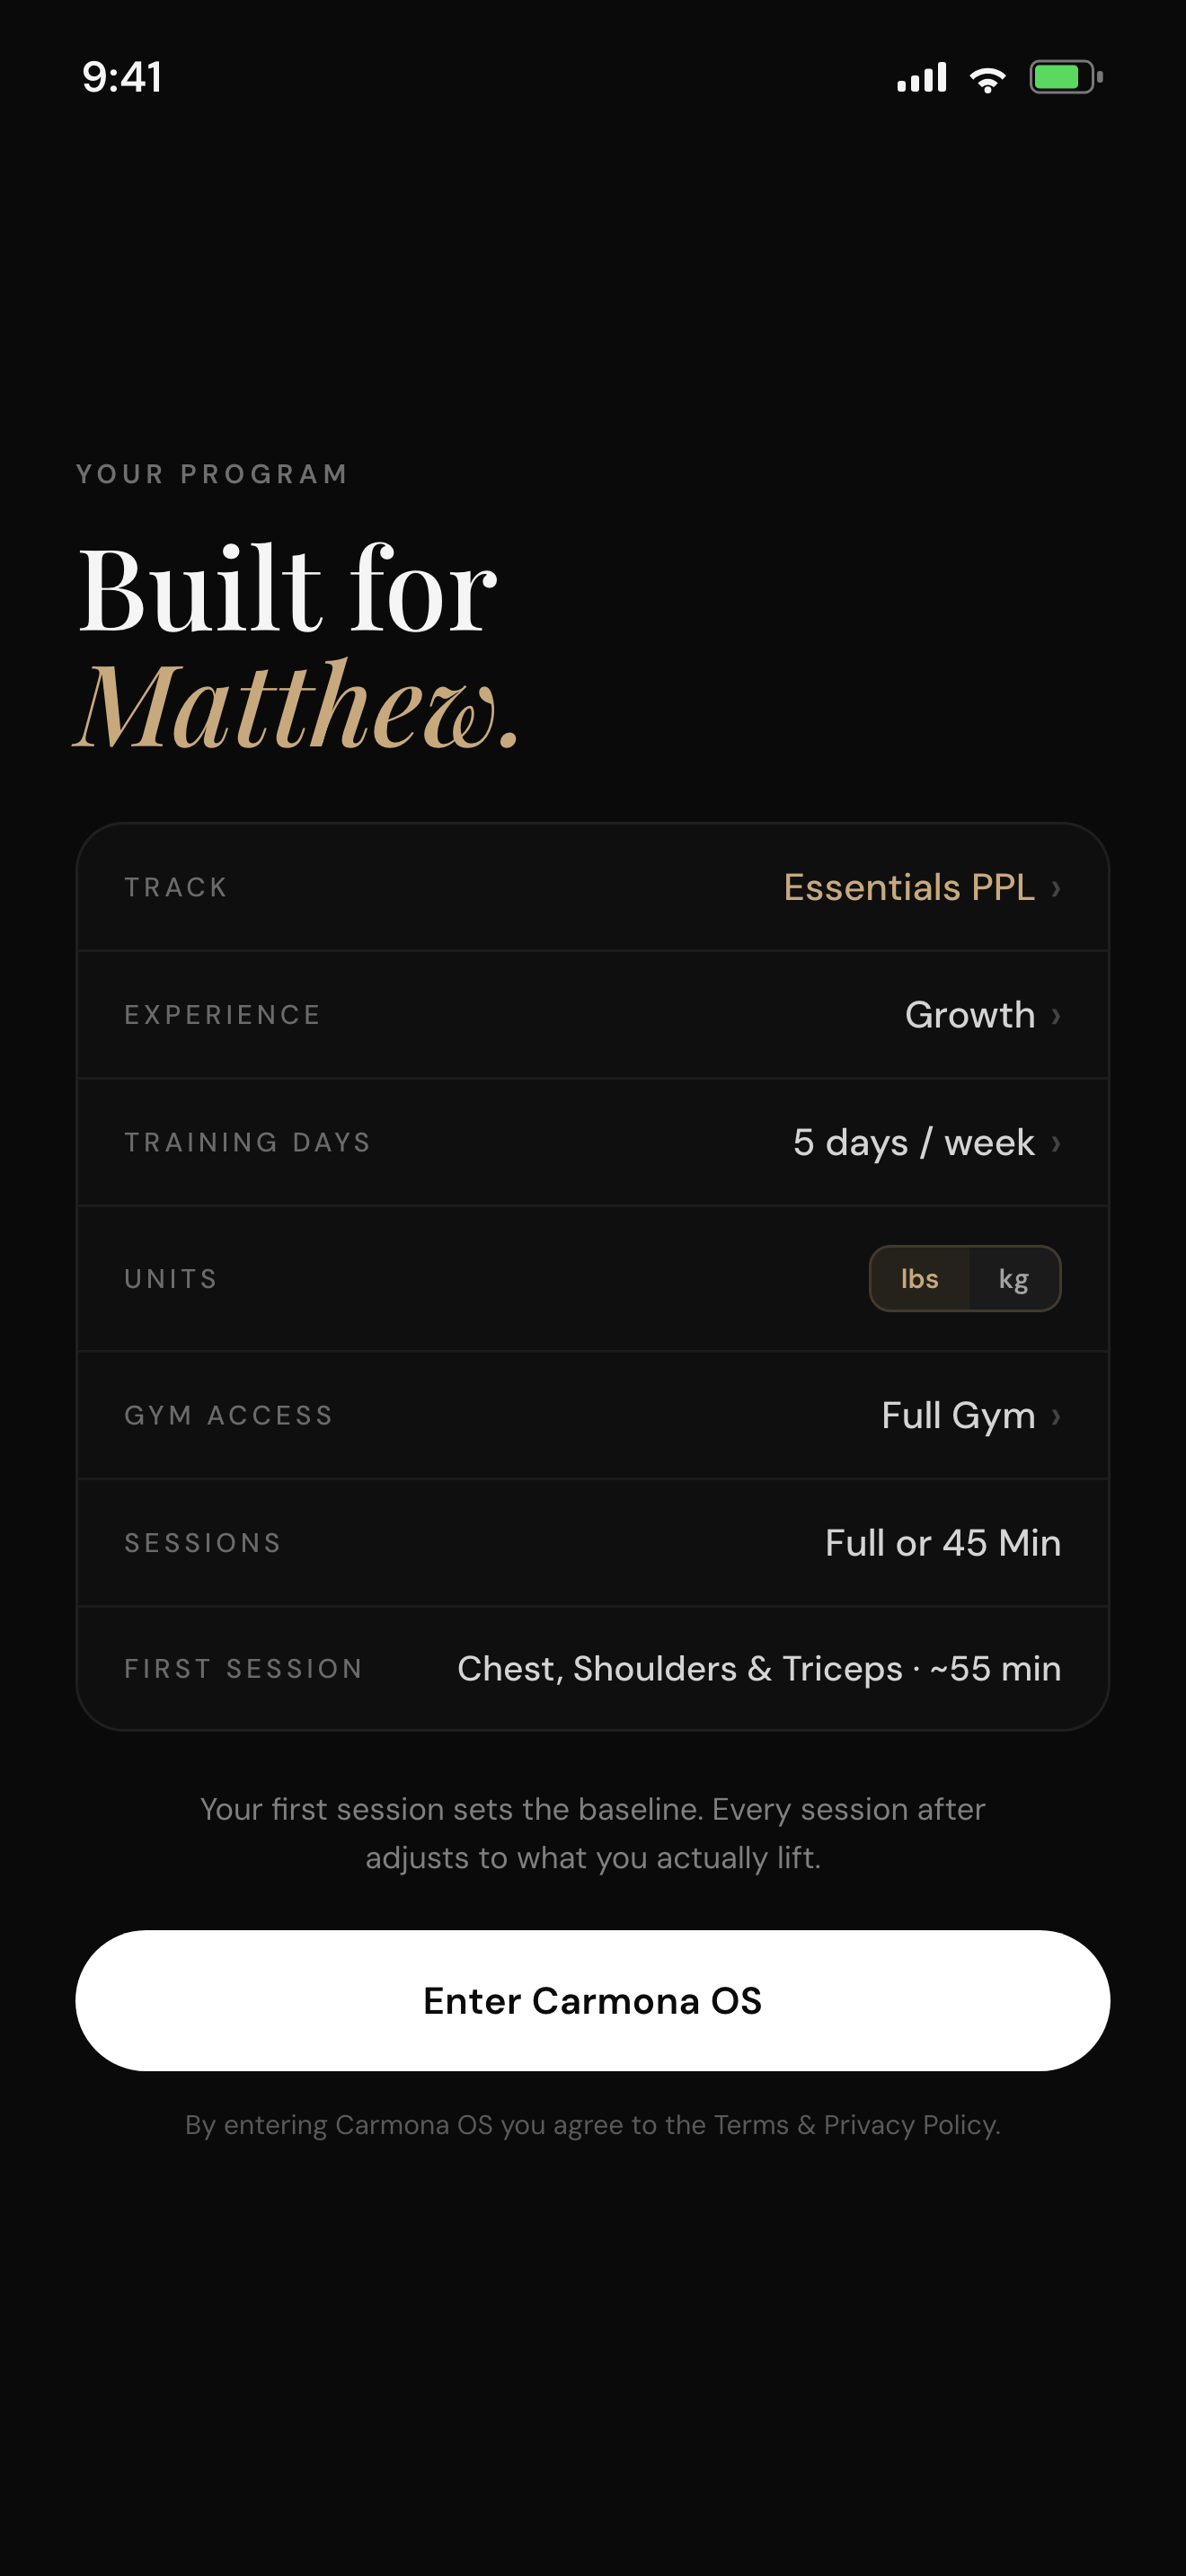
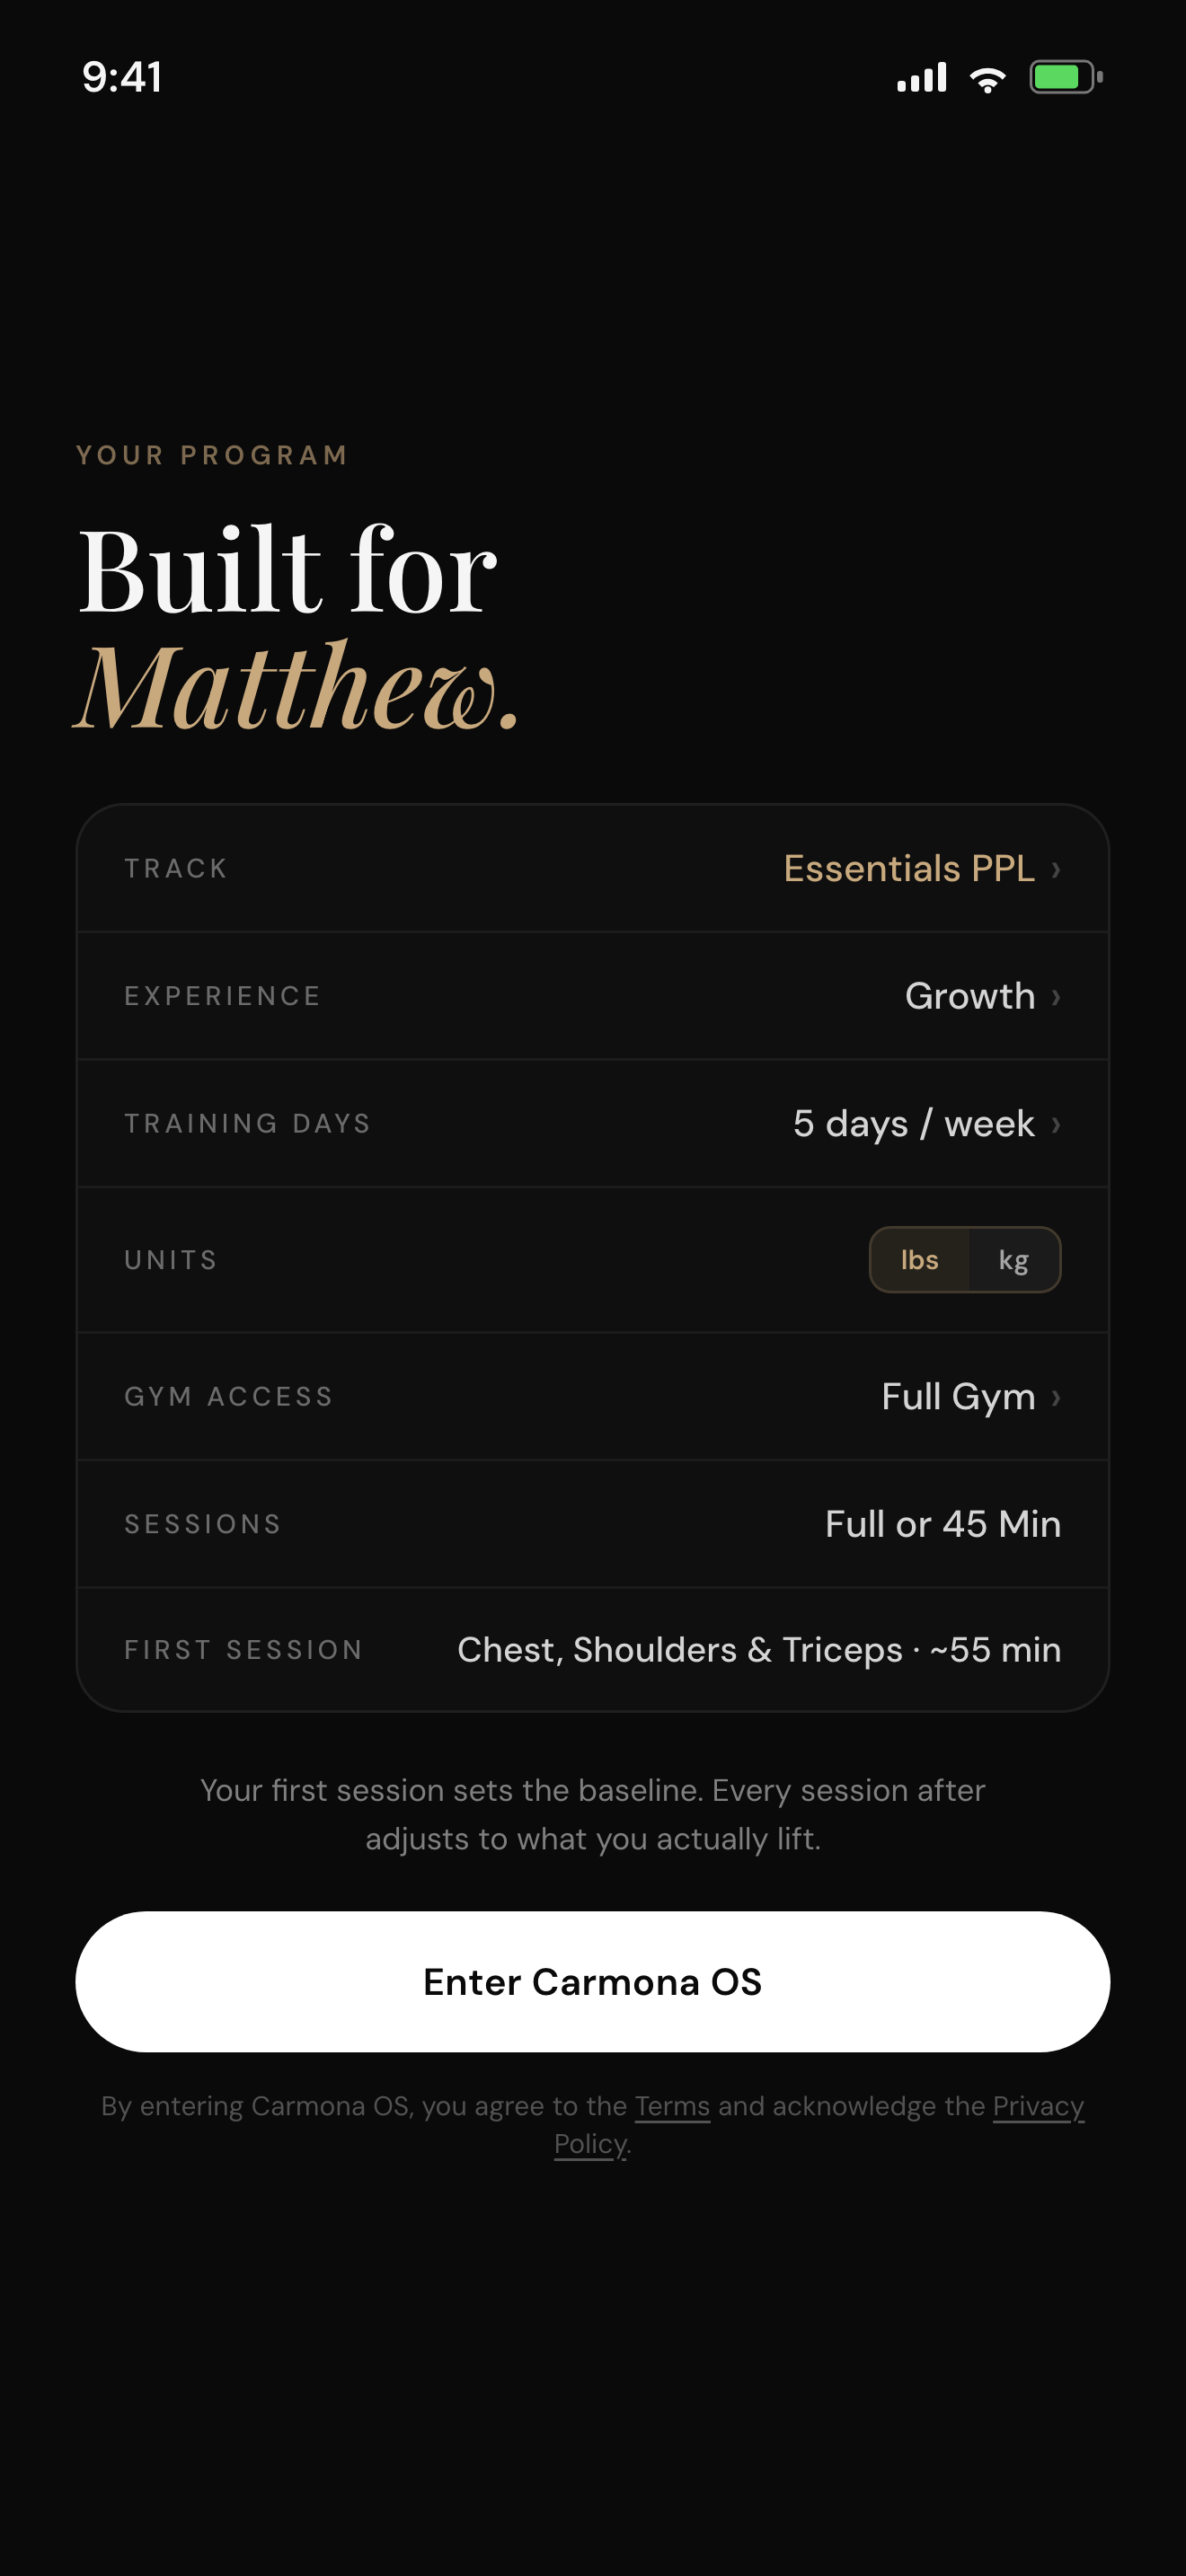
Source-accuracy pass on onboarding, demo, and progress screenshots
Verified all three against carmona-os source (same pass as the debrief):
- Onboarding: eyebrow now gold; legal line corrected to the real
  LegalAcknowledgment copy ("...agree to the Terms and acknowledge the
  Privacy Policy").
- Training-queue shot rebuilt as the real Demonstration screen: exercise
  name, the bench-press demo video, "Technique focus" cues
  (Setup/First Set/Watch Out), Begin Exercise. The old brief had an inline
  video, meta row, subtitle, and "0 of 6 done" pill that no longer exist.
  Caption updated to match.
- Progress: Latest Read rebuilt to the real composer shape — a session
  summary chip + lift chips with units, replacing an invented volume stat.

diff --git a/src/CarmonaOS.jsx b/src/CarmonaOS.jsx
@@ -275,7 +275,7 @@ export default function CarmonaOS() {
             <div style={{ display: "flex", gap: "20px", overflowX: "auto", padding: "0 24px 32px", scrollSnapType: "x mandatory", scrollPaddingLeft: "24px", WebkitOverflowScrolling: "touch", msOverflowStyle: "none", scrollbarWidth: "none", justifyContent: "flex-start" }}>
             {[
               { src: "/app-onboarding.png", label: "A program built around you from day one." },
-              { src: "/app-home.png", label: "Every set prescribed. Every rep coached." },
+              { src: "/app-home.png", label: "A demo and technique cues for every lift." },
               { src: "/app-debrief.png", label: "A coach's read after every session." },
               { src: "/app-progress.png", label: "Watch every muscle group move, block by block." },
             ].map((s, i) => (